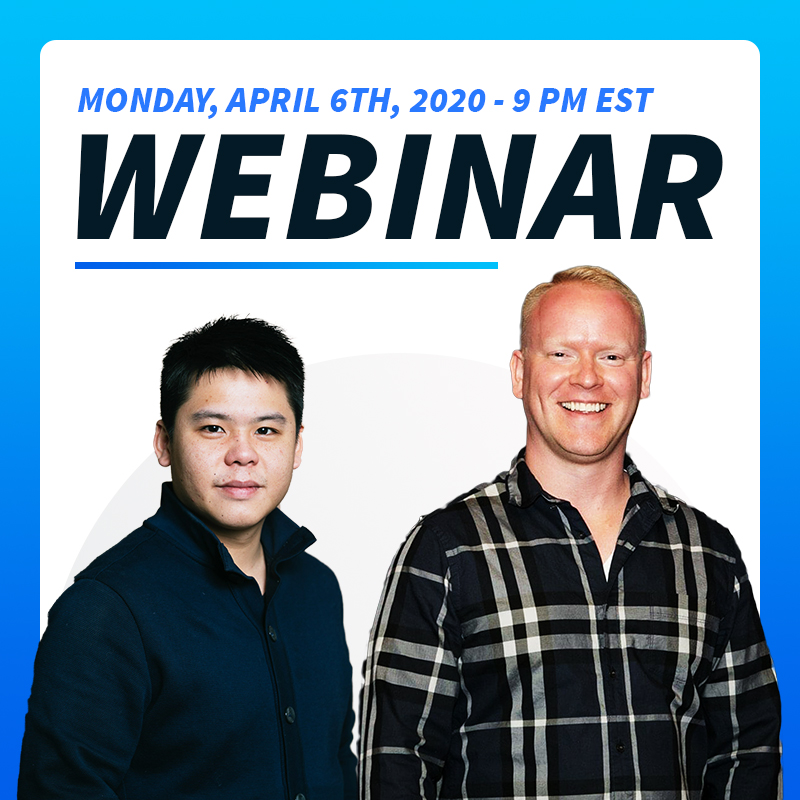
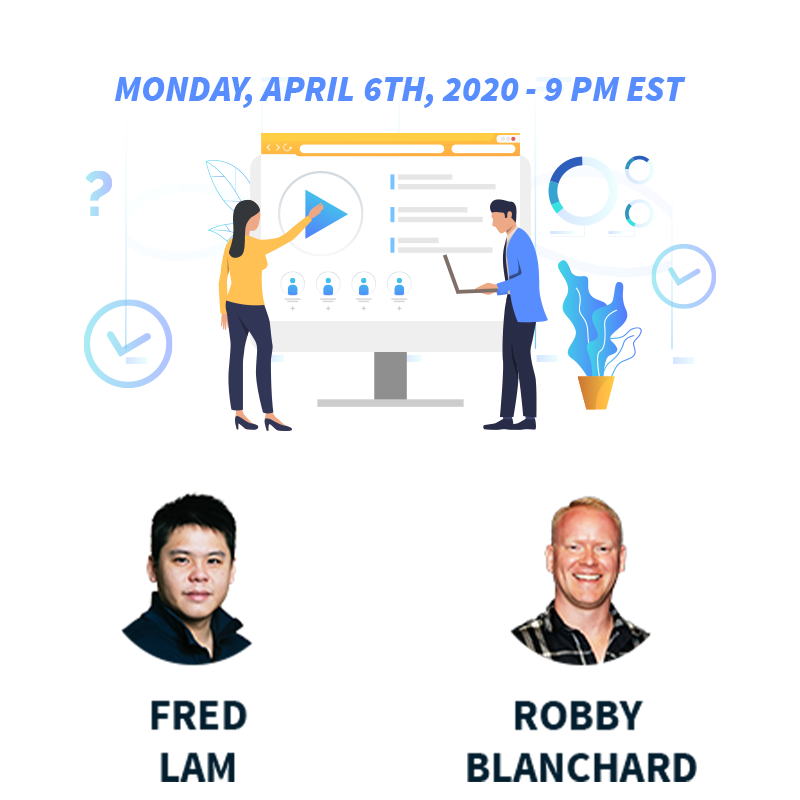
Updates graphic

diff --git a/ch-webreg3/index.html b/ch-webreg3/index.html
@@ -59,7 +59,7 @@
       <section class="pdf-section w-full lg:w-4/5 mx-auto">
         <div class="container py-8 px-3 mx-auto md:flex content-center rounded-lg border-4 border-yellow-500 blockitems-center bg-gray-100 shadow-xl">
           <div class="w-full md:w-2/5 rounded-t-lg md:rounded-t-none md:rounded-l-lg p-4">
-            <img class="w-full rounded overflow-hidden mb-4" src="../ch-webreg3/assets/images/graphic-webinar.jpg" alt="webinar">
+            <img class="w-full rounded overflow-hidden mb-4" src="../ch-webreg3/assets/images/graphic-webinar.png" alt="webinar">
             <h3 class="text-l text-center leading-tight font-bold">
               <i>Save Seat & Get Free Access Immediately</i>
             </h3>
@@ -119,7 +119,7 @@
          <a class="w-full md:w-3/5 mx-auto my-5 bg bg-yellow-500 block items-baseline rounded-sm py-3 px-5 text-2xl text-gray-900 hover:bg-yellow-600 focus:bg-yellow-600" ata-widget-link="true" href="#LB-ZiPXw5QbZ7iREAqyUaK3bm" target="_top" data-link-type="leadbox" data-leadbox-popup="ZiPXw5QbZ7iREAqyUaK3bm">
            <div class="text-center">
              <p class="mb-0"><b>Save Your FREE Seat For Workshop</b>
-             <br>Tuesday, March 31st</p>
+             <br>Monday, April 6th</p>
            </div>
          </a>
     </div>
